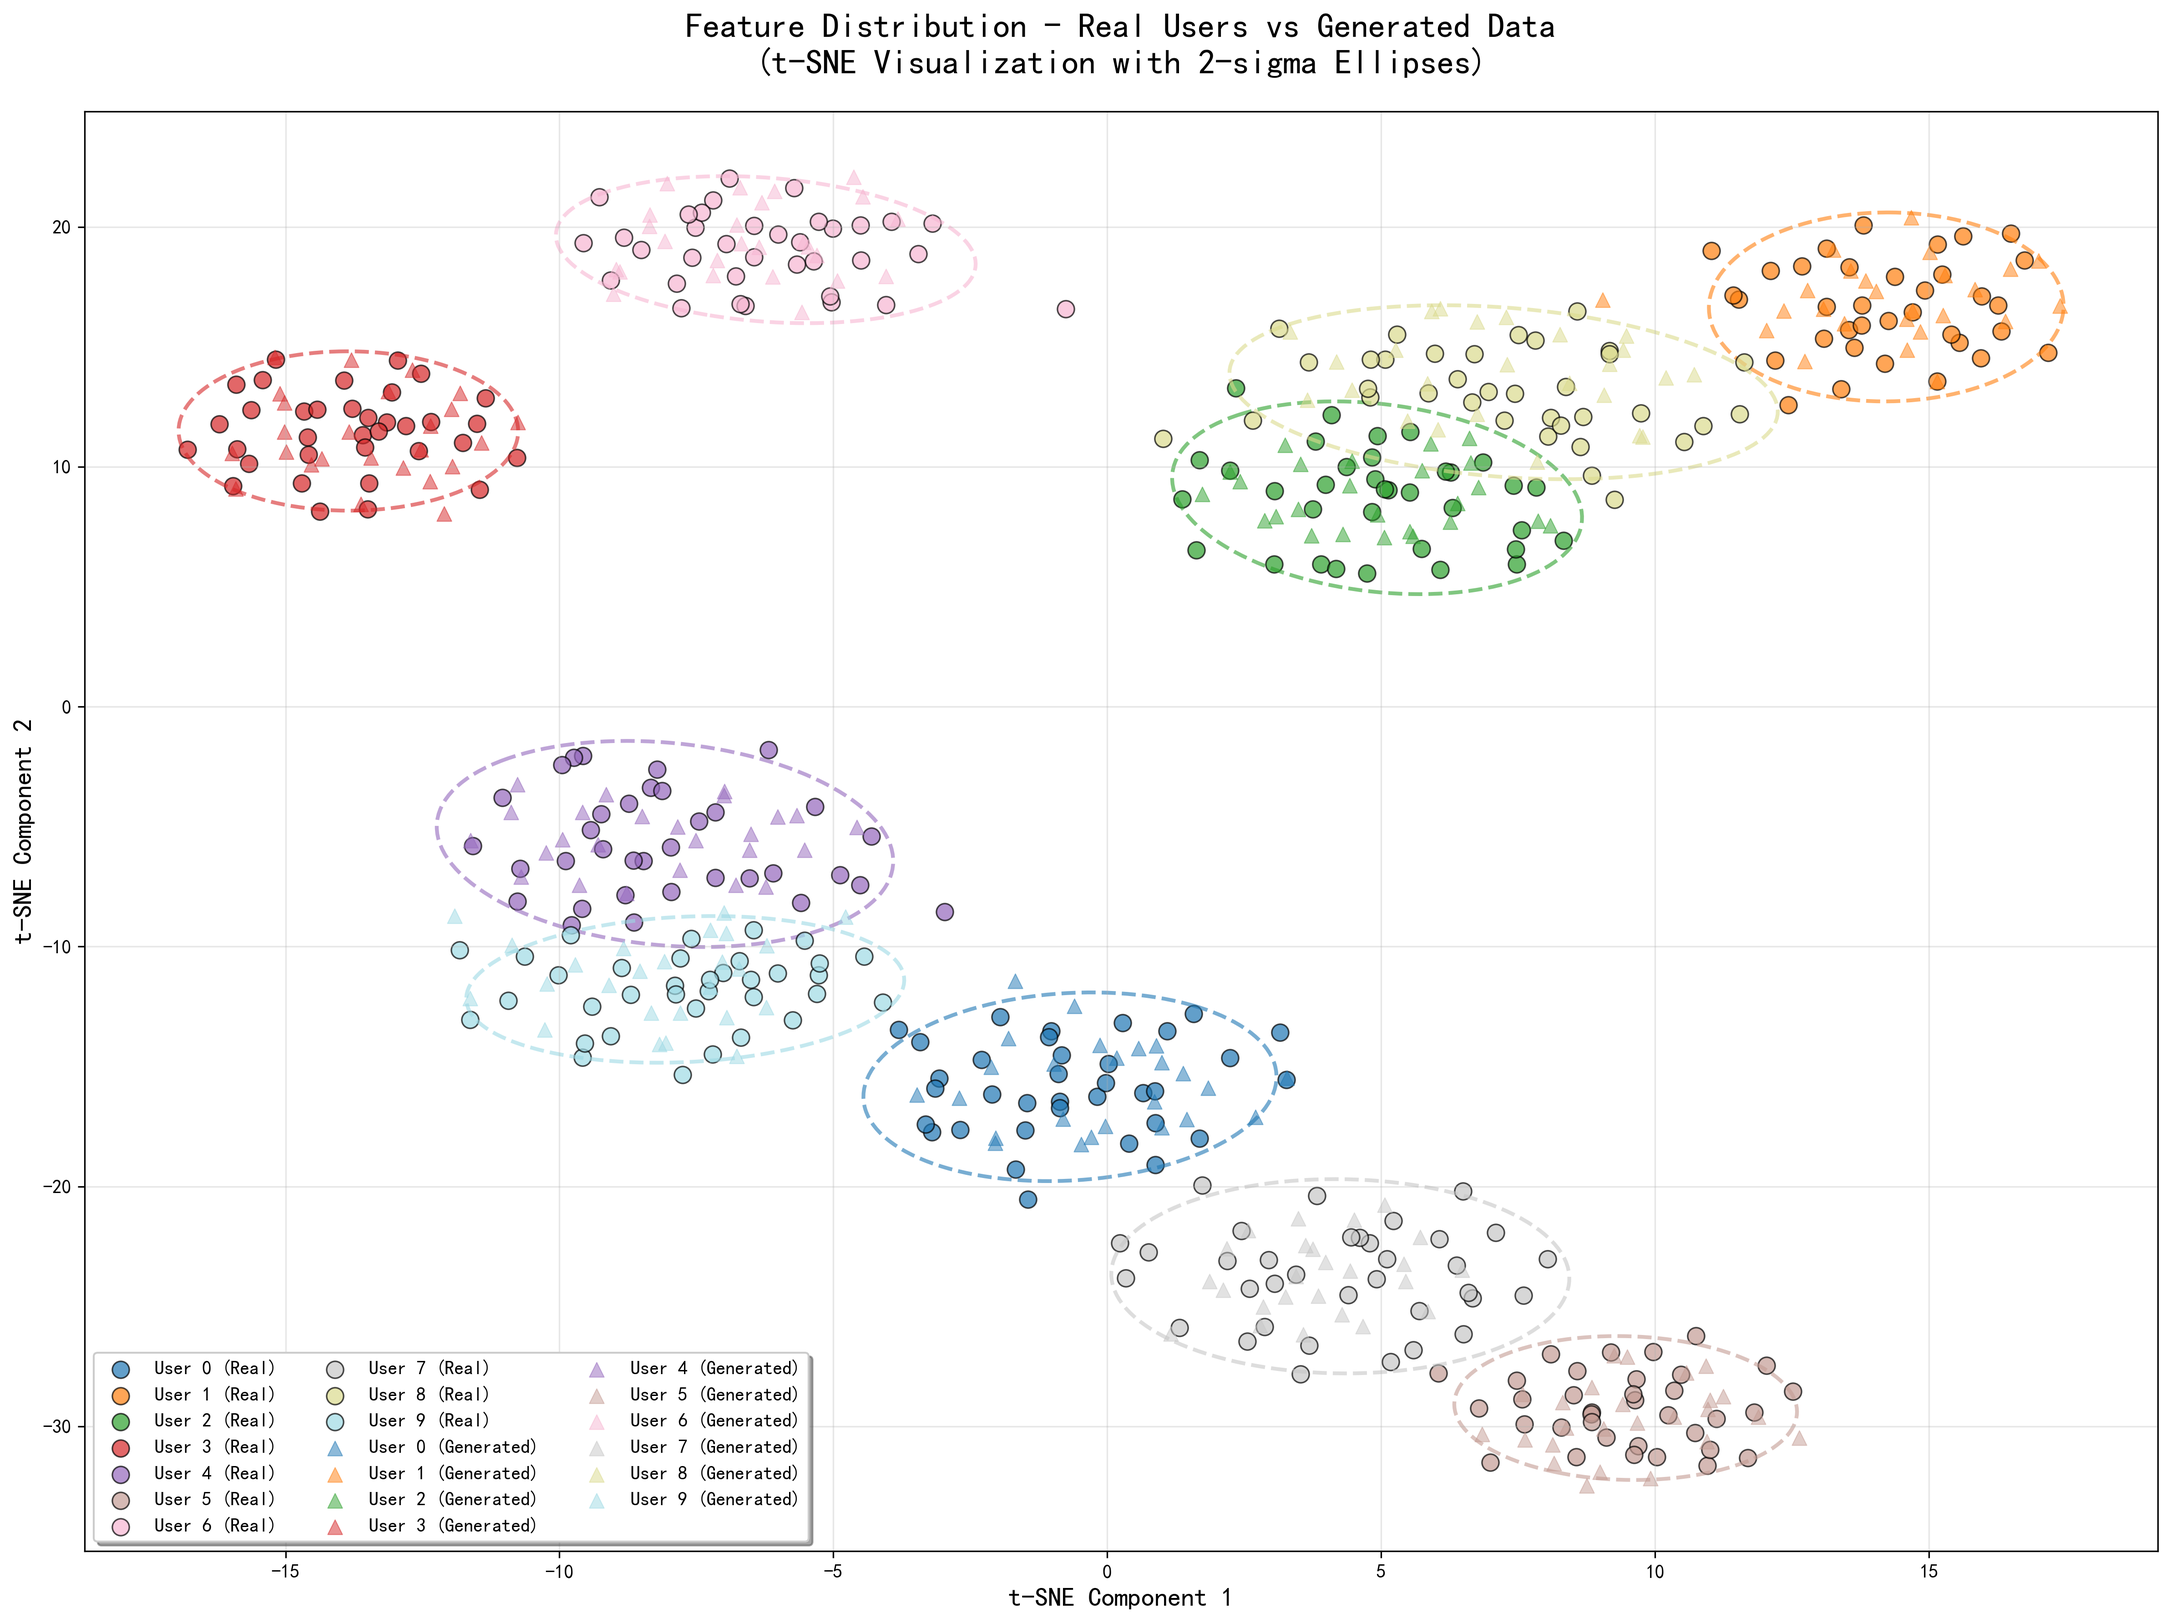
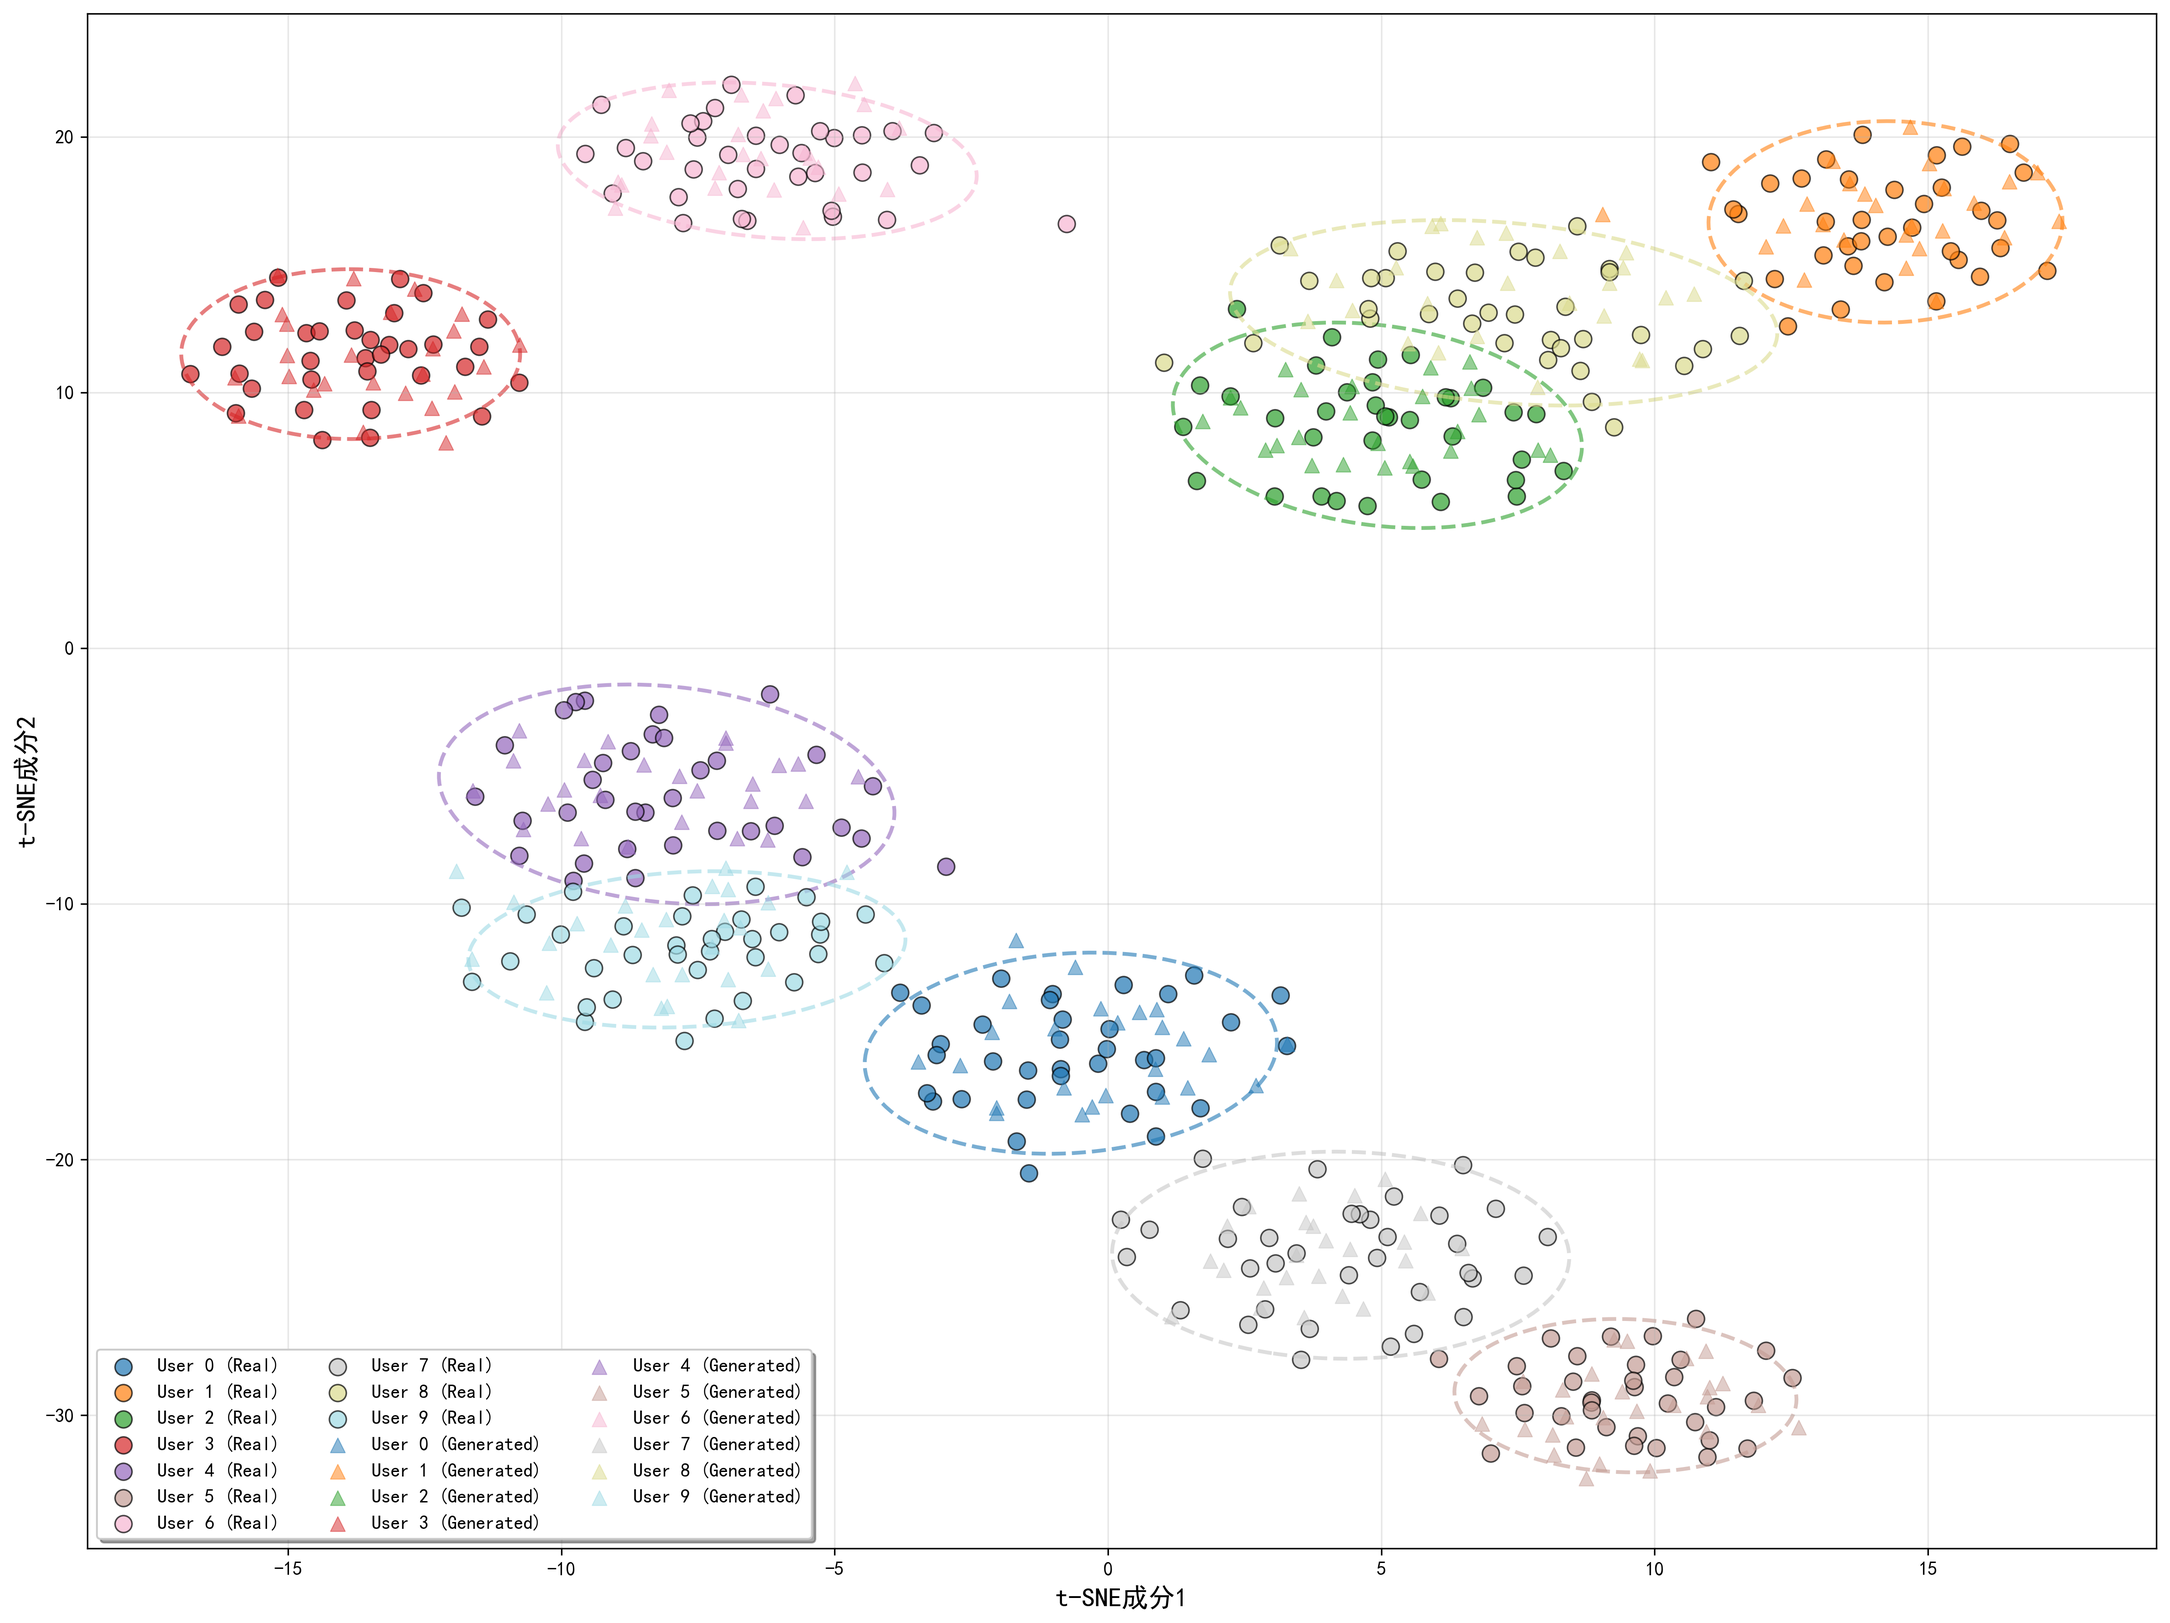
研究内容一优化

diff --git a/pre_process/CSIProcess2.py b/pre_process/CSIProcess2.py
@@ -392,11 +392,12 @@ def plot_frequency_selective_fading_comparison(data_path='../data/source_env0_en
     Sxx_aug_db = 10 * np.log10(np.abs(Sxx_aug) + 1e-10)
     
     # 绘图设置
-    plt.style.use('seaborn-v0_8')
-    fig, axes = plt.subplots(2, 1, figsize=(14, 10))
+    fig, axes = plt.subplots(2, 1, figsize=(14, 10), facecolor='white')
+    fig.patch.set_facecolor('white')
     
     # 上图: 增强前的时频图
     ax_before = axes[0]
+    ax_before.set_facecolor('white')
     # 将时间索引映射到实际值
     time_indices_orig = times_orig * (len(original_signal) - 1)
     # 使用插值方法轻滑热力图
@@ -414,6 +415,7 @@ def plot_frequency_selective_fading_comparison(data_path='../data/source_env0_en
     
     # 下图: 增强后的时频图
     ax_after = axes[1]
+    ax_after.set_facecolor('white')
     # 将时间索引映射到实际值
     time_indices_aug = times_aug * (len(augmented_signal) - 1)
     im2 = ax_after.pcolormesh(time_indices_aug, freqs_aug[:len(freqs_aug)//2], 
@@ -476,8 +478,8 @@ def plot_multipath_fading_comparison(data_path='../data/source_env0_env1_data.pt
     print(f"增强参数: {aug_params}")
     
     # 绘图设置
-    plt.style.use('seaborn-v0_8')
-    fig, axes = plt.subplots(2, 1, figsize=(14, 8))
+    fig, axes = plt.subplots(2, 1, figsize=(14, 8), facecolor='white')
+    fig.patch.set_facecolor('white')
     
     num_antennas = amplitude_data.shape[0]  # 56个天线
     selected_antennas = list(range(num_antennas))
@@ -485,6 +487,7 @@ def plot_multipath_fading_comparison(data_path='../data/source_env0_env1_data.pt
     
     # 上图: 增强前 - 原始数据
     ax_before = axes[0]
+    ax_before.set_facecolor('white')
     for antenna in selected_antennas:
         # amplitude_data: (56, 3, 6000)
         # 绘制每个天线的第一个维度
@@ -493,13 +496,13 @@ def plot_multipath_fading_comparison(data_path='../data/source_env0_env1_data.pt
     ax_before.set_title('原始CSI数据', fontsize=14, fontweight='bold', fontproperties=create_zh_font(14))
     ax_before.set_xlabel('时间索引', fontsize=11, fontproperties=create_zh_font(11))
     ax_before.set_ylabel('幅度', fontsize=11, fontproperties=create_zh_font(11))
-    ax_before.grid(True, alpha=0.3, linestyle='--')
     ax_before.tick_params(axis='both', which='major', labelsize=9)
     for label in ax_before.get_xticklabels() + ax_before.get_yticklabels():
         label.set_fontproperties(create_zh_font(9))
     
     # 下图: 增强后 - 多径衰落
     ax_after = axes[1]
+    ax_after.set_facecolor('white')
     for antenna in selected_antennas:
         # augmented_amplitude: (56, 3, 6000)
         # 绘制每个天线的第一个维度
@@ -509,7 +512,6 @@ def plot_multipath_fading_comparison(data_path='../data/source_env0_env1_data.pt
                       fontsize=14, fontweight='bold', fontproperties=create_zh_font(14))
     ax_after.set_xlabel('时间索引', fontsize=11, fontproperties=create_zh_font(11))
     ax_after.set_ylabel('幅度', fontsize=11, fontproperties=create_zh_font(11))
-    ax_after.grid(True, alpha=0.3, linestyle='--')
     ax_after.tick_params(axis='both', which='major', labelsize=9)
     for label in ax_after.get_xticklabels() + ax_after.get_yticklabels():
         label.set_fontproperties(create_zh_font(9))
@@ -557,8 +559,8 @@ def plot_noise_augmentation_comparison(data_path='../data/source_env0_env1_data.
     print(f"使用SNR: {actual_snr:.2f} dB, 噪声缩放: {noise_scale}")
     
     # 绘图设置
-    plt.style.use('seaborn-v0_8')
-    fig, axes = plt.subplots(2, 1, figsize=(14, 8))
+    fig, axes = plt.subplots(2, 1, figsize=(14, 8), facecolor='white')
+    fig.patch.set_facecolor('white')
     
     num_antennas = amplitude_data.shape[0]  # 56个天线
     selected_antennas = list(range(num_antennas))
@@ -566,6 +568,7 @@ def plot_noise_augmentation_comparison(data_path='../data/source_env0_env1_data.
     
     # 上图: 增强前 - 原始数据
     ax_before = axes[0]
+    ax_before.set_facecolor('white')
     for antenna in selected_antennas:
         # 绘制第一个维度的幅度
         ax_before.plot(amplitude_data[antenna, 0, :].numpy(),
@@ -573,13 +576,13 @@ def plot_noise_augmentation_comparison(data_path='../data/source_env0_env1_data.
     ax_before.set_title('原始CSI数据', fontsize=14, fontweight='bold', fontproperties=create_zh_font(14))
     ax_before.set_xlabel('时间索引', fontsize=11, fontproperties=create_zh_font(11))
     ax_before.set_ylabel('幅度', fontsize=11, fontproperties=create_zh_font(11))
-    ax_before.grid(True, alpha=0.3, linestyle='--')
     ax_before.tick_params(axis='both', which='major', labelsize=9)
     for label in ax_before.get_xticklabels() + ax_before.get_yticklabels():
         label.set_fontproperties(create_zh_font(9))
     
     # 下图: 增强后 - 添加轻微噪声
     ax_after = axes[1]
+    ax_after.set_facecolor('white')
     for antenna in selected_antennas:
         # 绘制第一个维度的幅度
         ax_after.plot(augmented_amplitude[antenna, 0, :].numpy(),
@@ -588,7 +591,6 @@ def plot_noise_augmentation_comparison(data_path='../data/source_env0_env1_data.
                       fontsize=14, fontweight='bold', fontproperties=create_zh_font(14))
     ax_after.set_xlabel('时间索引', fontsize=11, fontproperties=create_zh_font(11))
     ax_after.set_ylabel('幅度', fontsize=11, fontproperties=create_zh_font(11))
-    ax_after.grid(True, alpha=0.3, linestyle='--')
     ax_after.tick_params(axis='both', which='major', labelsize=9)
     for label in ax_after.get_xticklabels() + ax_after.get_yticklabels():
         label.set_fontproperties(create_zh_font(9))
@@ -622,10 +624,10 @@ def plot_csi_amplitude(data_path='../data/source_env0_env1_data.pt', sample_inde
     amplitude_data = torch.abs(sample_data)
 
     # 绘图设置
-    plt.style.use('seaborn-v0_8')
     fig_size = (10, 6)
 
-    fig, axes = plt.subplots(3, 1, figsize=fig_size)
+    fig, axes = plt.subplots(3, 1, figsize=fig_size, facecolor='white')
+    fig.patch.set_facecolor('white')
 
     num_antennas = amplitude_data.shape[0]
     time_steps = amplitude_data.shape[2]
@@ -634,6 +636,7 @@ def plot_csi_amplitude(data_path='../data/source_env0_env1_data.pt', sample_inde
 
     for dim in range(3):
         ax = axes[dim]
+        ax.set_facecolor('white')
         for i, antenna in enumerate(selected_antennas):
             ax.plot(amplitude_data[antenna, dim, :].numpy(),
                     alpha=0.8,
@@ -642,7 +645,6 @@ def plot_csi_amplitude(data_path='../data/source_env0_env1_data.pt', sample_inde
         ax.set_title(f'天线 {dim + 1}', fontsize=12, pad=10, fontproperties=create_zh_font(12))
         ax.set_xlabel('时间', fontsize=10, fontproperties=create_zh_font(10))
         ax.set_ylabel('幅度', fontsize=10, fontproperties=create_zh_font(10))
-        ax.grid(True, alpha=0.3)
         ax.tick_params(axis='both', which='major', labelsize=8)
         # 为坐标轴刻度标签也设置中文字体
         for label in ax.get_xticklabels() + ax.get_yticklabels():

diff --git a/pre_process/CSIProcess1.py b/pre_process/CSIProcess1.py
@@ -45,7 +45,7 @@ zh_font = create_zh_font(12)
 print(f"已配置中文字体，默认大小为12")
 
 
-def plot_csi_amplitude(data_path='../data/source_env0_env1_data.pt', sample_index=132,
+def plot_csi_amplitude(data_path='../data/source_env0_env1_data.pt', sample_index=132, #132
                        save_path='./preprocess/sample_amplitude_plot.png'):
     """
     绘制CSI数据的幅度图
@@ -63,10 +63,10 @@ def plot_csi_amplitude(data_path='../data/source_env0_env1_data.pt', sample_inde
     amplitude_data = torch.abs(sample_data)
 
     # 绘图设置
-    plt.style.use('seaborn-v0_8')
     fig_size = (10, 6)
 
-    fig, axes = plt.subplots(3, 1, figsize=fig_size)
+    fig, axes = plt.subplots(3, 1, figsize=fig_size, facecolor='white')
+    fig.patch.set_facecolor('white')
 
     num_antennas = amplitude_data.shape[0]
     time_steps = amplitude_data.shape[2]
@@ -75,6 +75,7 @@ def plot_csi_amplitude(data_path='../data/source_env0_env1_data.pt', sample_inde
 
     for dim in range(3):
         ax = axes[dim]
+        ax.set_facecolor('white')
         for i, antenna in enumerate(selected_antennas):
             ax.plot(amplitude_data[antenna, dim, :].numpy(),
                     alpha=0.8,
@@ -83,7 +84,6 @@ def plot_csi_amplitude(data_path='../data/source_env0_env1_data.pt', sample_inde
         ax.set_title(f'天线 {dim + 1}', fontsize=12, pad=10, fontproperties=create_zh_font(12))
         ax.set_xlabel('时间', fontsize=10, fontproperties=create_zh_font(10))
         ax.set_ylabel('幅度', fontsize=10, fontproperties=create_zh_font(10))
-        ax.grid(True, alpha=0.3)
         ax.tick_params(axis='both', which='major', labelsize=8)
         # 为坐标轴刻度标签也设置中文字体
         for label in ax.get_xticklabels() + ax.get_yticklabels():
@@ -162,10 +162,10 @@ def plot_extended_csi_amplitude(data_path='../data/source_env0_env1_data.pt', sa
     extended_amplitude_data = torch.clamp(extended_amplitude_data, min=0)
 
     # 绘图设置
-    plt.style.use('seaborn-v0_8')
     fig_size = (24, 16)  # 增大图像尺寸以使整体更协调
 
-    fig, axes = plt.subplots(3, 1, figsize=fig_size)
+    fig, axes = plt.subplots(3, 1, figsize=fig_size, facecolor='white')
+    fig.patch.set_facecolor('white')
 
     num_antennas = extended_amplitude_data.shape[0]
     selected_antennas = list(range(num_antennas))
@@ -176,6 +176,7 @@ def plot_extended_csi_amplitude(data_path='../data/source_env0_env1_data.pt', sa
 
     for dim in range(3):
         ax = axes[dim]
+        ax.set_facecolor('white')
         for i, antenna in enumerate(selected_antennas):
             ax.plot(extended_amplitude_data[antenna, dim, :].numpy(),
                     alpha=0.8,
@@ -189,7 +190,6 @@ def plot_extended_csi_amplitude(data_path='../data/source_env0_env1_data.pt', sa
         ax.set_title(f'天线 {dim + 1}', fontsize=28, pad=20, fontproperties=create_zh_font(24), fontweight='bold')
         ax.set_xlabel('时间', fontsize=20, fontproperties=create_zh_font(20))
         ax.set_ylabel('幅度', fontsize=20, fontproperties=create_zh_font(20))
-        ax.grid(True, alpha=0.3)
         ax.tick_params(axis='both', which='major', labelsize=14)
 
         # 设置x轴刻度以便更好地显示
@@ -296,10 +296,10 @@ def plot_extended_csi_amplitude_with_noise(data_path='../data/source_env0_env1_d
     noisy_amplitude_data = torch.clamp(noisy_amplitude_data, min=0)
 
     # 绘图设置
-    plt.style.use('seaborn-v0_8')
     fig_size = (24, 16)  # 增大图像尺寸以使整体更协调
 
-    fig, axes = plt.subplots(3, 1, figsize=fig_size)
+    fig, axes = plt.subplots(3, 1, figsize=fig_size, facecolor='white')
+    fig.patch.set_facecolor('white')
 
     num_antennas = noisy_amplitude_data.shape[0]
     selected_antennas = list(range(num_antennas))
@@ -307,6 +307,7 @@ def plot_extended_csi_amplitude_with_noise(data_path='../data/source_env0_env1_d
 
     for dim in range(3):
         ax = axes[dim]
+        ax.set_facecolor('white')
         for i, antenna in enumerate(selected_antennas):
             ax.plot(noisy_amplitude_data[antenna, dim, :].numpy(),
                     alpha=0.8,
@@ -317,7 +318,6 @@ def plot_extended_csi_amplitude_with_noise(data_path='../data/source_env0_env1_d
         ax.set_title(f'天线 {dim + 1}', fontsize=28, pad=20, fontproperties=create_zh_font(24), fontweight='bold')
         ax.set_xlabel('时间', fontsize=20, fontproperties=create_zh_font(20))
         ax.set_ylabel('幅度', fontsize=20, fontproperties=create_zh_font(20))
-        ax.grid(True, alpha=0.3)
         ax.tick_params(axis='both', which='major', labelsize=14)
 
         # 设置x轴刻度以便更好地显示

diff --git a/Research1/plot.py b/Research1/plot.py
@@ -280,14 +280,13 @@ def plot_feature_distribution_tsne_improved(real_features, real_labels, syntheti
                        c='red', label='Generated Samples',
                        alpha=0.4, s=40, edgecolors='darkred', linewidth=0.5, marker='^')
     
-    # 设置标题和标签
-    plt.title('Feature Distribution - Real Users vs Generated Data\n(t-SNE Visualization with 2-sigma Ellipses)',
-              fontsize=18, fontweight='bold', pad=20)
-    plt.xlabel('t-SNE Component 1', fontsize=14, fontweight='bold')
-    plt.ylabel('t-SNE Component 2', fontsize=14, fontweight='bold')
+    # 设置标题和标签（使用中文字体）
+
+    plt.xlabel('t-SNE成分1', fontsize=14, fontweight='bold', fontproperties=create_zh_font(14))
+    plt.ylabel('t-SNE成分2', fontsize=14, fontweight='bold', fontproperties=create_zh_font(14))    
     
-    # 设置图例
-    plt.legend(fontsize=10, loc='best', frameon=True, fancybox=True, shadow=True, ncol=3)
+    # 设置图例（使用中文字体）
+    plt.legend(fontsize=10, loc='best', frameon=True, fancybox=True, shadow=True, ncol=3, prop=create_zh_font(10))
     plt.grid(True, alpha=0.3)
     plt.tight_layout()
     
